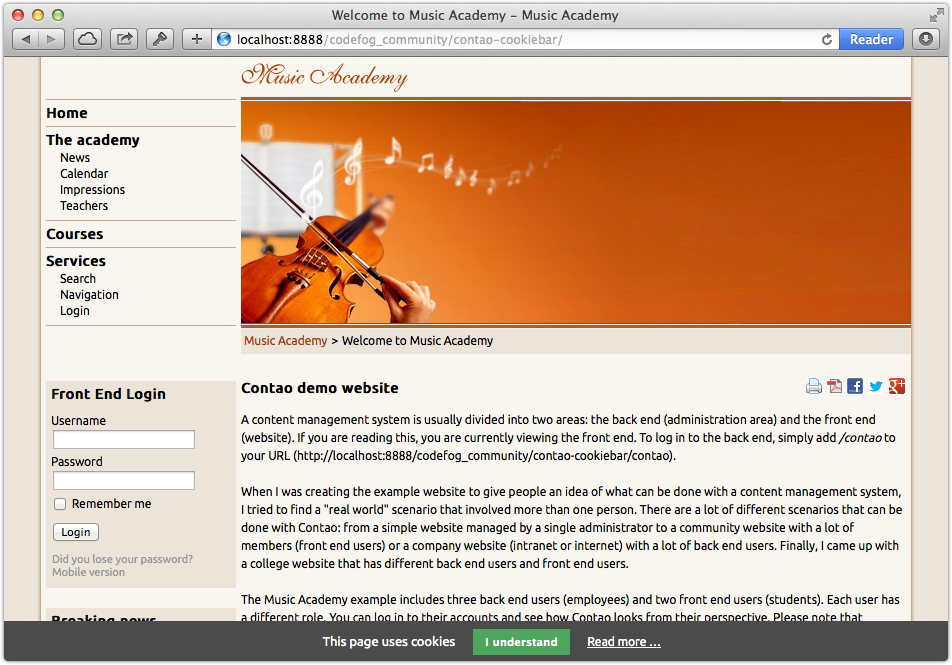
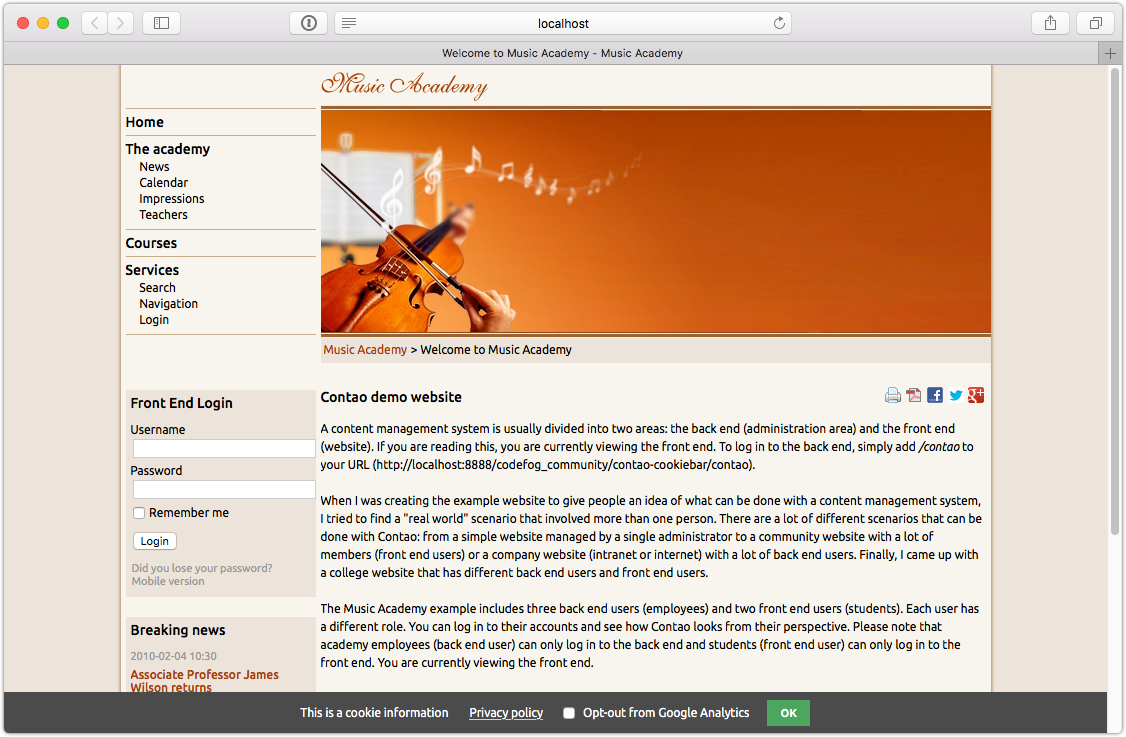
Added the analytics checkbox (#52)

diff --git a/assets/dist/cookiebar.min.css b/assets/dist/cookiebar.min.css
@@ -1,1 +1,1 @@
-.cookiebar{box-sizing:border-box;position:fixed;left:0;width:100%;padding:.6em 1.2em;background-color:#4b4b4b;color:#fff;font-size:1em;text-align:center;z-index:10}.cookiebar *{box-sizing:border-box}.cookiebar--active{display:flex!important;justify-content:center;align-items:center;flex-wrap:wrap}.cookiebar--position-top{top:0}.cookiebar--position-bottom{bottom:0}.cookiebar__message,.cookiebar__text{margin-right:1.5em}.cookiebar__link{color:#fff;text-decoration:underline}.cookiebar__link:hover{text-decoration:none}.cookiebar__button{margin:0;padding:.6em 1.2em;border:none;border-radius:0;background-color:#4ea55e;color:#fff;font-weight:700;cursor:pointer}.cookiebar__button:hover{background-color:#3e824a}
+.cookiebar{box-sizing:border-box;position:fixed;left:0;width:100%;padding:.6em 1.2em;background-color:#4b4b4b;color:#fff;font-size:1em;text-align:center;z-index:10}.cookiebar *{box-sizing:border-box}.cookiebar--active{display:flex!important;justify-content:center;align-items:center;flex-wrap:wrap}.cookiebar--position-top{top:0}.cookiebar--position-bottom{bottom:0}.cookiebar__message,.cookiebar__text{margin-right:1.5em}.cookiebar__link{color:#fff;text-decoration:underline}.cookiebar__link:hover{text-decoration:none}.cookiebar__button{margin:0;padding:.6em 1.2em;border:none;border-radius:0;background-color:#4ea55e;color:#fff;font-weight:700;cursor:pointer}.cookiebar__button:hover{background-color:#3e824a}.cookiebar__analytics{margin-right:1.5em}.cookiebar__analytics-label{cursor:pointer}.cookiebar__analytics-checkbox{margin-right:5px}

diff --git a/assets/dist/cookiebar.min.js b/assets/dist/cookiebar.min.js
@@ -1,1 +1,1 @@
-document.addEventListener("DOMContentLoaded",function(){var e=document.querySelector("[data-cookiebar]");if(e){var t=e.dataset.cookiebar;if(-1===document.cookie.indexOf(t)){e.classList.add("cookiebar--active"),document.body.classList.add("cookiebar-active");var a=e.querySelector("[data-cookiebar-accept]");a&&a.addEventListener("click",function(a){a.preventDefault();var o=new Date,c=e.dataset.cookiebarTtl?parseInt(e.dataset.cookiebarTtl,10):365;o.setDate(o.getDate()+c),document.cookie=t+"=1; expires="+o.toUTCString()+";path=/",e.classList.remove("cookiebar--active"),document.body.classList.remove("cookiebar-active")})}}});
+document.addEventListener("DOMContentLoaded",function(){var e=document.querySelector("[data-cookiebar]");if(e){var t=e.dataset.cookiebar;if(-1===document.cookie.indexOf(t)){e.classList.add("cookiebar--active"),document.body.classList.add("cookiebar-active");var a=e.querySelector("[data-cookiebar-accept]");a&&a.addEventListener("click",function(a){a.preventDefault();var o=new Date,c=e.dataset.cookiebarTtl?parseInt(e.dataset.cookiebarTtl,10):365;o.setDate(o.getDate()+c),document.cookie=t+"=1; expires="+o.toUTCString()+";path=/",e.classList.remove("cookiebar--active"),document.body.classList.remove("cookiebar-active")});var o=e.querySelector("[data-cookiebar-analytics]");if(o){localStorage.getItem("COOKIEBAR_ANALYTICS")&&(o.checked=!0),o.addEventListener("change",function(e){e.preventDefault(),this.checked?localStorage.setItem("COOKIEBAR_ANALYTICS",1):localStorage.removeItem("COOKIEBAR_ANALYTICS")})}}}});

diff --git a/assets/src/cookiebar.js b/assets/src/cookiebar.js
@@ -43,4 +43,26 @@ document.addEventListener('DOMContentLoaded', function () {
             document.body.classList.remove(bodyCssClass);
         });
     }
+
+    var analyticsBox = cookiebar.querySelector('[data-cookiebar-analytics]');
+
+    // Power up the analytics box if exists
+    if (analyticsBox) {
+        var analyticsKey = 'COOKIEBAR_ANALYTICS';
+
+        // Check the box if the box was checked
+        if (localStorage.getItem(analyticsKey)) {
+            analyticsBox.checked = true;
+        }
+
+        analyticsBox.addEventListener('change', function (e) {
+            e.preventDefault();
+
+            if (this.checked) {
+                localStorage.setItem(analyticsKey, 1);
+            } else {
+                localStorage.removeItem(analyticsKey);
+            }
+        });
+    }
 });

diff --git a/assets/src/cookiebar.scss b/assets/src/cookiebar.scss
@@ -59,4 +59,16 @@
             background-color: darken(#4ea55e, 10);
         }
     }
+
+    &__analytics {
+        margin-right: 1.5em;
+
+        &-label {
+            cursor: pointer;
+        }
+
+        &-checkbox {
+            margin-right: 5px;
+        }
+    }
 }

diff --git a/dca/tl_page.php b/dca/tl_page.php
@@ -14,9 +14,11 @@
  * Extend the palettes.
  */
 $GLOBALS['TL_DCA']['tl_page']['palettes']['__selector__'][] = 'cookiebar_enable';
+$GLOBALS['TL_DCA']['tl_page']['palettes']['__selector__'][] = 'cookiebar_analyticsCheckbox';
 $GLOBALS['TL_DCA']['tl_page']['palettes']['root'] .= ';{cookiebar_legend},cookiebar_enable';
 
-$GLOBALS['TL_DCA']['tl_page']['subpalettes']['cookiebar_enable'] = 'cookiebar_message,cookiebar_button,cookiebar_ttl,cookiebar_url,cookiebar_link,cookiebar_position,cookiebar_placement,cookiebar_combineAssets,cookiebar_includeCss';
+$GLOBALS['TL_DCA']['tl_page']['subpalettes']['cookiebar_enable'] = 'cookiebar_message,cookiebar_button,cookiebar_ttl,cookiebar_url,cookiebar_link,cookiebar_position,cookiebar_placement,cookiebar_combineAssets,cookiebar_includeCss,cookiebar_analyticsCheckbox';
+$GLOBALS['TL_DCA']['tl_page']['subpalettes']['cookiebar_analyticsCheckbox'] = 'cookiebar_analyticsLabel';
 
 /*
  * Add the fields
@@ -115,4 +117,21 @@ $GLOBALS['TL_DCA']['tl_page']['fields']['cookiebar_ttl'] = [
     'inputType' => 'text',
     'eval' => ['rgxp' => 'digit', 'tl_class' => 'w50'],
     'sql' => "varchar(4) NOT NULL default ''",
+];
+
+$GLOBALS['TL_DCA']['tl_page']['fields']['cookiebar_analyticsCheckbox'] = [
+    'label' => &$GLOBALS['TL_LANG']['tl_page']['cookiebar_analyticsCheckbox'],
+    'exclude' => true,
+    'inputType' => 'checkbox',
+    'default' => 1,
+    'eval' => ['tl_class' => 'clr'],
+    'sql' => "char(1) NOT NULL default '1'",
+];
+
+$GLOBALS['TL_DCA']['tl_page']['fields']['cookiebar_analyticsLabel'] = [
+    'label' => &$GLOBALS['TL_LANG']['tl_page']['cookiebar_analyticsLabel'],
+    'exclude' => true,
+    'inputType' => 'text',
+    'eval' => ['maxlength' => 128, 'tl_class' => 'w50'],
+    'sql' => "varchar(128) NOT NULL default ''",
 ];

diff --git a/src/Codefog/Cookiebar/CookiebarGenerator.php b/src/Codefog/Cookiebar/CookiebarGenerator.php
@@ -29,6 +29,7 @@ class CookiebarGenerator
         $template = new FrontendTemplate($name);
         $this->setBasicData($template, $data);
         $this->setMoreLinkData($template, $data);
+        $this->setAnalyticsCheckboxData($template, $data);
 
         // Cookie name
         $template->cookie = sprintf('COOKIEBAR_%s', $data['id']);
@@ -67,6 +68,23 @@ class CookiebarGenerator
             $template->more = [
                 'label' => $data['cookiebar_link'] ?: $GLOBALS['TL_LANG']['MSC']['cookiebar.more'],
                 'url' => $data['cookiebar_url'],
+            ];
+        }
+    }
+
+    /**
+     * Set the "analytics" checkbox data.
+     *
+     * @param FrontendTemplate $template
+     * @param array            $data
+     */
+    private function setAnalyticsCheckboxData(FrontendTemplate $template, array $data)
+    {
+        $template->analyticsCheckbox = null;
+
+        if ($data['cookiebar_analyticsCheckbox']) {
+            $template->analyticsCheckbox = [
+                'label' => $data['cookiebar_analyticsLabel'] ?: $GLOBALS['TL_LANG']['MSC']['cookiebar.analytics'],
             ];
         }
     }

diff --git a/languages/en/tl_page.php b/languages/en/tl_page.php
@@ -50,6 +50,14 @@ $GLOBALS['TL_LANG']['tl_page']['cookiebar_ttl'] = [
     'Cookiebar display interval (days)',
     'Here you can enter a custom number of days before the cookiebar will be displayed again. If none provided, the default value will be used.',
 ];
+$GLOBALS['TL_LANG']['tl_page']['cookiebar_analyticsCheckbox'] = [
+    'Add the analytics checkbox',
+    'Add the checkbox that allows to opt-in/out from the analytics used on the page. <strong>IMPORTANT:</strong> please refer to the official documentation how to use it.',
+];
+$GLOBALS['TL_LANG']['tl_page']['cookiebar_analyticsLabel'] = [
+    'Analytics checkbox label',
+    'Here you can enter a custom analytics checkbox label.',
+];
 
 /*
  * Legends

diff --git a/languages/en/default.php b/languages/en/default.php
@@ -14,3 +14,4 @@
  * Miscellaneous.
  */
 $GLOBALS['TL_LANG']['MSC']['cookiebar.more'] = &$GLOBALS['TL_LANG']['MSC']['more'];
+$GLOBALS['TL_LANG']['MSC']['cookiebar.analytics'] = 'Opt-out from analytics';

diff --git a/docs/README.md b/docs/README.md
@@ -13,6 +13,49 @@ jQuery to make it work.
 
 ![](images/preview.png)
 
+## Analytics handling
+
+To support the analytics opt-out, apart from checking the analytics box in cookiebar settings, you will also need
+to adjust your Google Analytics / Piwik script. This feature can't come out of the box as the analytics implementation
+can be different for every website.
+
+The analytics checkbox in cookiebar when checked will create an item in the browser's `localStorage`
+named `COOKIEBAR_ANALYTICS`. In order to check whether it is present or not, you can simply use this snippet:
+
+```js
+var disabled = !!localStorage.getItem('COOKIEBAR_ANALYTICS');
+```
+
+Here is an example of adjusted `analytics_google.html5` template from Contao 3.5:
+
+```diff
+<?php
+
+/**
+ * To use this script, please fill in your Google Analytics ID below
+ */
+$GoogleAnalyticsId = 'UA-XXXXX-X';
+
+
+/**
+ * DO NOT EDIT ANYTHING BELOW THIS LINE UNLESS YOU KNOW WHAT YOU ARE DOING!
+ */
+if ($GoogleAnalyticsId != 'UA-XXXXX-X' && !BE_USER_LOGGED_IN && sha1(session_id() . (!Config::get('disableIpCheck') ? Environment::get('ip') : '') . 'BE_USER_AUTH') != Input::cookie('BE_USER_AUTH')): ?>
+
+<script>
++  window['ga-disable-<?= $GoogleAnalyticsId ?>'] = !!localStorage.getItem('COOKIEBAR_ANALYTICS');
+  (function(i,s,o,g,r,a,m){i['GoogleAnalyticsObject']=r;i[r]=i[r]||function(){(i[r].q=i[r].q||[]).push(arguments)},i[r].l=1*new Date();a=s.createElement(o),m=s.getElementsByTagName(o)[0];a.async=1;a.src=g;m.parentNode.insertBefore(a,m)})(window,document,'script','https://www.google-analytics.com/analytics.js','ga');
+  ga('create', '<?= $GoogleAnalyticsId ?>', 'auto');
+  <?php if (Config::get('privacyAnonymizeGA')): ?>
+    ga('set', 'anonymizeIp', true);
+  <?php endif; ?>
+  ga('send', 'pageview');
+</script>
+
+<?php endif; ?>
+
+```
+
 ## Change appearance
 
 The cookiebar can be easily styled using CSS:
